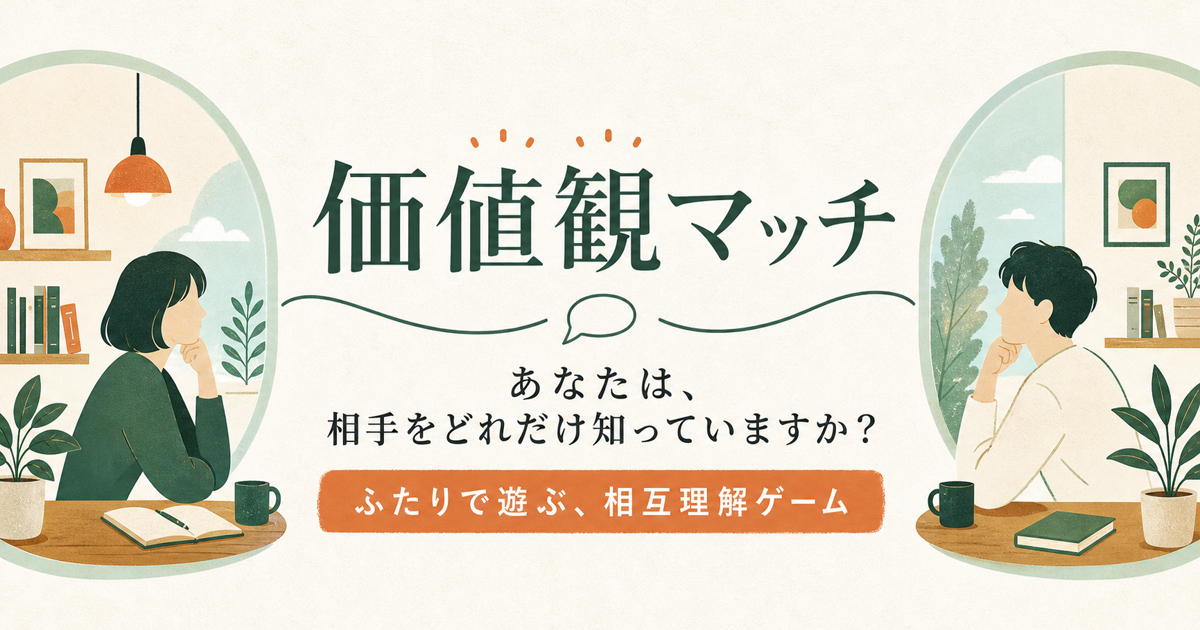
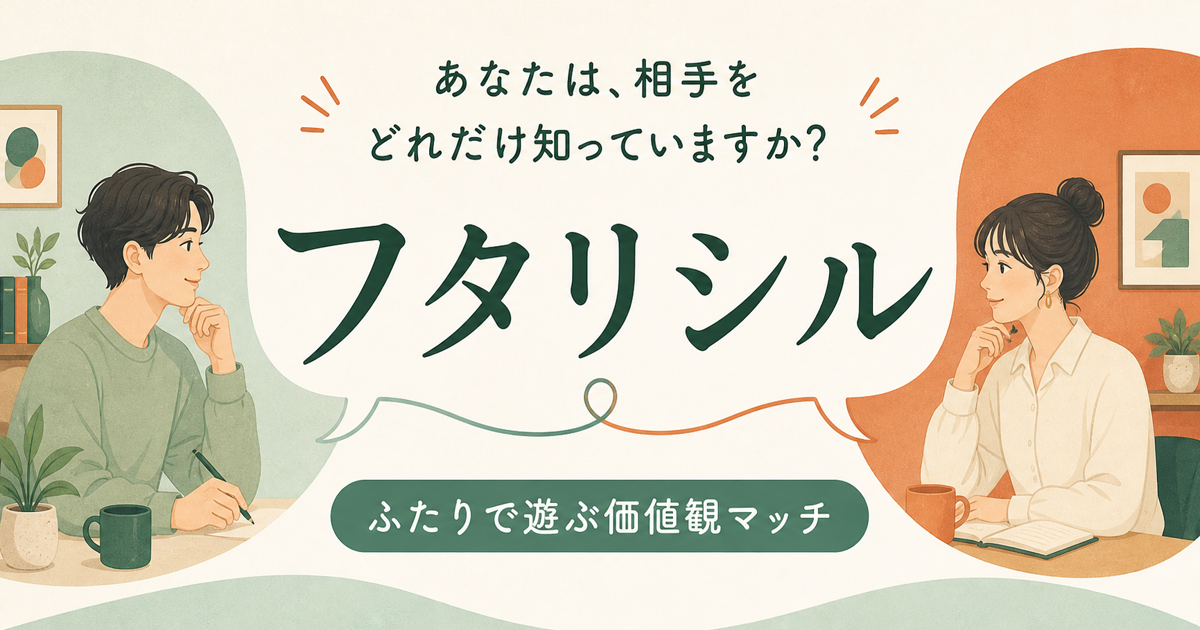
「フタリシル」へのブランド変更を実装

diff --git a/src/components/Game.tsx b/src/components/Game.tsx
@@ -361,7 +361,7 @@ export function Invite({ token }: { token: string }) {
           );
           if (data.status === "completed") {
             setCompleted(true);
-            document.title = "回答が届きました！｜価値観マッチ";
+            document.title = "回答が届きました！｜フタリシル";
           }
         } catch {}
       };
@@ -369,7 +369,7 @@ export function Invite({ token }: { token: string }) {
       const timer = window.setInterval(checkStatus, 5000);
       return () => {
         window.clearInterval(timer);
-        document.title = "価値観マッチ｜ふたりで遊ぶ相互理解ゲーム";
+        document.title = "フタリシル｜ふたりで遊ぶ価値観マッチ";
       };
     }
   }, [token]);
@@ -468,7 +468,7 @@ export function Invite({ token }: { token: string }) {
                 className="button secondary"
                 onClick={() =>
                   navigator.share?.({
-                    title: "価値観マッチ",
+                    title: "フタリシル",
                     text: "私の答えも予想してみて！",
                     url,
                   })
@@ -504,10 +504,14 @@ export function Result({ token }: { token: string }) {
             method: "POST",
             body: JSON.stringify({ sessionId: params.get("session_id") }),
           });
-          setPaymentMessage("お支払いが完了しました。詳細レポートを解放しました。");
+          setPaymentMessage(
+            "お支払いが完了しました。詳細レポートを解放しました。",
+          );
           window.history.replaceState({}, "", `/result/${token}`);
         } else if (params.get("checkout") === "cancelled") {
-          setPaymentMessage("決済はキャンセルされました。料金は発生していません。");
+          setPaymentMessage(
+            "決済はキャンセルされました。料金は発生していません。",
+          );
           window.history.replaceState({}, "", `/result/${token}`);
         }
         return apiJson<Saved>(`/api/sessions/${token}/result`);
@@ -980,7 +984,8 @@ export function Result({ token }: { token: string }) {
                 : "詳細レポートを解放する →"}
             </button>
             <p className="purchase-terms">
-              決済完了後すぐに提供されます。提供開始後のお客様都合による返金はできません。不具合・重複決済は対応します。カード明細には「KACHIKAN MATCH」等と表示されます。
+              決済完了後すぐに提供されます。提供開始後のお客様都合による返金はできません。不具合・重複決済は対応します。カード明細には「KACHIKAN
+              MATCH」等と表示されます。
               <br />
               <a href="/commerce">販売条件</a>・<a href="/terms">利用規約</a>
               に同意のうえ購入してください。
@@ -1003,7 +1008,7 @@ function Shell({ children }: { children: React.ReactNode }) {
     <main className="app-shell">
       <nav className="app-nav">
         <a className="brand" href="/">
-          <i>わ</i> 価値観マッチ
+          <i>ふ</i> フタリシル
         </a>
         <span className="question-meta">登録不要 · 約5分</span>
       </nav>

diff --git a/src/app/layout.tsx b/src/app/layout.tsx
@@ -6,12 +6,12 @@ const siteUrl = "https://www.kachikanmatch.jp";
 export const metadata: Metadata = {
   metadataBase: new URL(siteUrl),
   title: {
-    default: "価値観マッチ｜ふたりで遊ぶ相互理解ゲーム",
-    template: "%s｜価値観マッチ",
+    default: "フタリシル｜ふたりで遊ぶ価値観マッチ・相互理解ゲーム",
+    template: "%s｜フタリシル",
   },
   description:
     "友達・恋人・夫婦・家族と24問に答え、相手の回答を予想。ふたりの価値観の共通点・違い・理解度を楽しく見つける、登録不要の相互理解ゲームです。",
-  applicationName: "価値観マッチ",
+  applicationName: "フタリシル",
   keywords: [
     "価値観ゲーム",
     "価値観診断",
@@ -20,15 +20,15 @@ export const metadata: Metadata = {
     "カップル 質問",
     "夫婦 会話",
   ],
-  authors: [{ name: "KACHIKAN MATCH" }],
-  creator: "KACHIKAN MATCH",
+  authors: [{ name: "フタリシル" }],
+  creator: "フタリシル",
   alternates: { canonical: "/" },
   openGraph: {
     type: "website",
     locale: "ja_JP",
     url: siteUrl,
-    siteName: "価値観マッチ",
-    title: "価値観マッチ｜あなたは、相手をどれだけ知っていますか？",
+    siteName: "フタリシル",
+    title: "フタリシル｜あなたは、相手をどれだけ知っていますか？",
     description:
       "答えを比べるだけではなく、相手の答えを予想する。ふたりの価値観と理解度が見える相互理解ゲーム。",
     images: [
@@ -36,13 +36,13 @@ export const metadata: Metadata = {
         url: "/og.png",
         width: 1200,
         height: 630,
-        alt: "価値観マッチ―あなたは、相手をどれだけ知っていますか？",
+        alt: "フタリシル―あなたは、相手をどれだけ知っていますか？",
       },
     ],
   },
   twitter: {
     card: "summary_large_image",
-    title: "価値観マッチ｜ふたりで遊ぶ相互理解ゲーム",
+    title: "フタリシル｜ふたりで遊ぶ価値観マッチ",
     description:
       "相手の答えを予想して、ふたりの価値観と理解度を楽しく見つけよう。",
     images: ["/og.png"],

diff --git a/src/app/page.tsx b/src/app/page.tsx
@@ -14,7 +14,7 @@ const worlds = [
 export default function Home() {
   const faq = [
     [
-      "価値観マッチはどんなサービスですか？",
+      "フタリシルはどんなサービスですか？",
       "2人が同じ24問に答え、相手の回答も予想する相互理解ゲームです。共通点だけでなく、違いや意外な回答を会話のきっかけとして楽しめます。",
     ],
     [
@@ -39,7 +39,8 @@ export default function Home() {
     "@graph": [
       {
         "@type": "WebApplication",
-        name: "価値観マッチ",
+        name: "フタリシル",
+        alternateName: "価値観マッチ",
         url: "https://www.kachikanmatch.jp/",
         applicationCategory: "EntertainmentApplication",
         operatingSystem: "Web",
@@ -76,7 +77,7 @@ export default function Home() {
       <section className="hero">
         <nav className="nav">
           <span className="brand">
-            <i>わ</i> 価値観マッチ
+            <i>ふ</i> フタリシル
           </span>
           <span className="nav-note">登録不要 · 約5分</span>
         </nav>
@@ -243,7 +244,7 @@ export default function Home() {
       </section>
       <footer>
         <span className="brand">
-          <i>わ</i> 価値観マッチ
+          <i>ふ</i> フタリシル
         </span>
         <div>
           <Link href="/terms">利用規約</Link>
@@ -251,7 +252,7 @@ export default function Home() {
           <Link href="/commerce">特定商取引法に基づく表記</Link>
           <Link href="/contact">お問い合わせ</Link>
         </div>
-        <small>© 2026 価値観マッチ</small>
+        <small>© 2026 フタリシル</small>
       </footer>
     </main>
   );

diff --git a/src/app/terms/page.tsx b/src/app/terms/page.tsx
@@ -7,7 +7,7 @@ export default function Page() {
       <h1>利用規約</h1>
       <p className="legal-updated">制定日：2026年8月12日</p>
       <p>
-        本規約は、KACHIKAN MATCH（以下「運営者」）が提供する「価値観マッチ」（以下「本サービス」）の利用条件を定めるものです。
+        本規約は、運営者が提供する「フタリシル（価値観マッチ）」（以下「本サービス」）の利用条件を定めるものです。
       </p>
 
       <h2>1. サービスの内容</h2>

diff --git a/src/app/privacy/page.tsx b/src/app/privacy/page.tsx
@@ -7,7 +7,7 @@ export default function Page() {
       <h1>プライバシーポリシー</h1>
       <p className="legal-updated">制定日：2026年8月12日</p>
       <p>
-        KACHIKAN MATCH（以下「運営者」）は、「価値観マッチ」における利用者情報を、以下の方針に従って取り扱います。
+        運営者は、「フタリシル（価値観マッチ）」における利用者情報を、以下の方針に従って取り扱います。
       </p>
 
       <h2>1. 取得する情報</h2>

diff --git a/src/app/commerce/page.tsx b/src/app/commerce/page.tsx
@@ -1,7 +1,7 @@
 import Link from "next/link";
 
 const rows = [
-  ["サービス名", "KACHIKAN MATCH（価値観マッチ）"],
+  ["サービス名", "フタリシル（ふたりで遊ぶ価値観マッチ）"],
   [
     "販売事業者",
     "請求があった場合、遅滞なく開示します。開示を希望される方は、下記お問い合わせ先へご連絡ください。",

diff --git a/src/app/api/checkout/route.ts b/src/app/api/checkout/route.ts
@@ -70,7 +70,7 @@ export async function POST(request: Request) {
               price_data: {
                 currency: "jpy",
                 unit_amount: 480,
-                product_data: { name: "価値観マッチ 詳細レポート" },
+                product_data: { name: "フタリシル 詳細レポート" },
               },
               quantity: 1,
             },

diff --git a/src/app/contact/page.tsx b/src/app/contact/page.tsx
@@ -10,7 +10,7 @@ export default function Page() {
       </p>
       <a
         className="contact-mail"
-        href="mailto:onseisakusei@gmail.com?subject=価値観マッチへのお問い合わせ"
+        href="mailto:onseisakusei@gmail.com?subject=フタリシルへのお問い合わせ"
       >
         onseisakusei@gmail.com
       </a>
